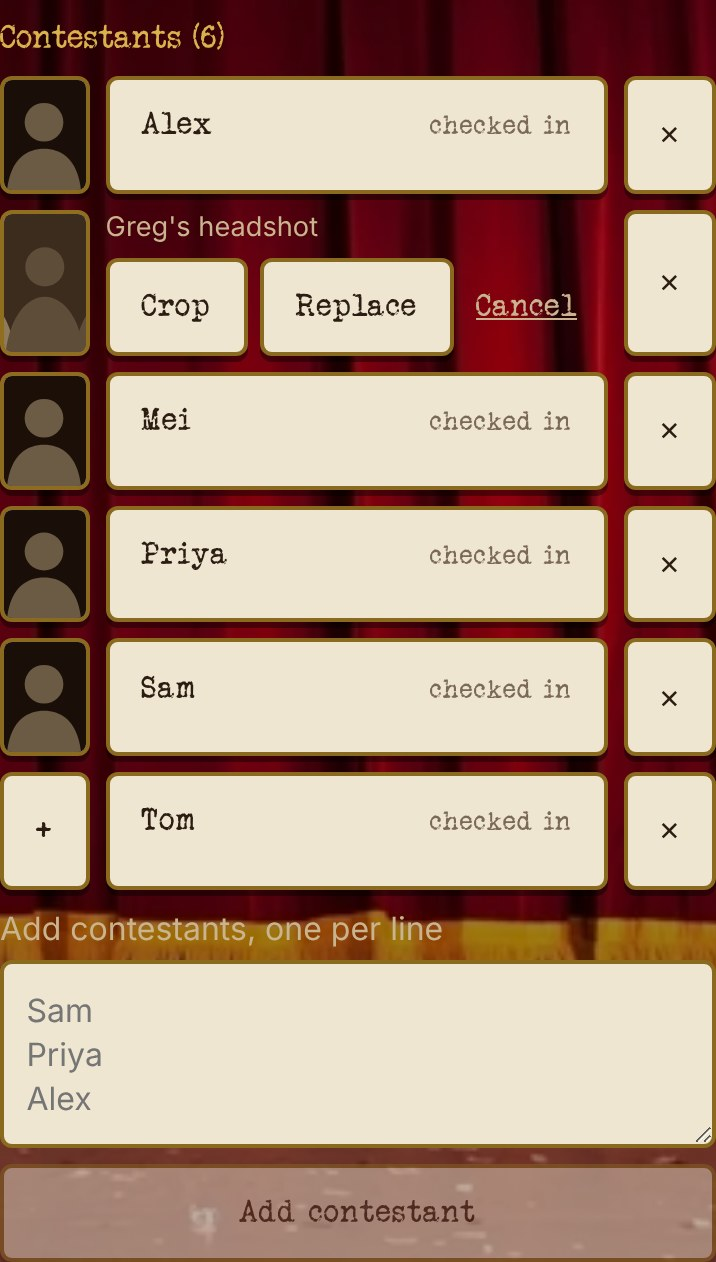
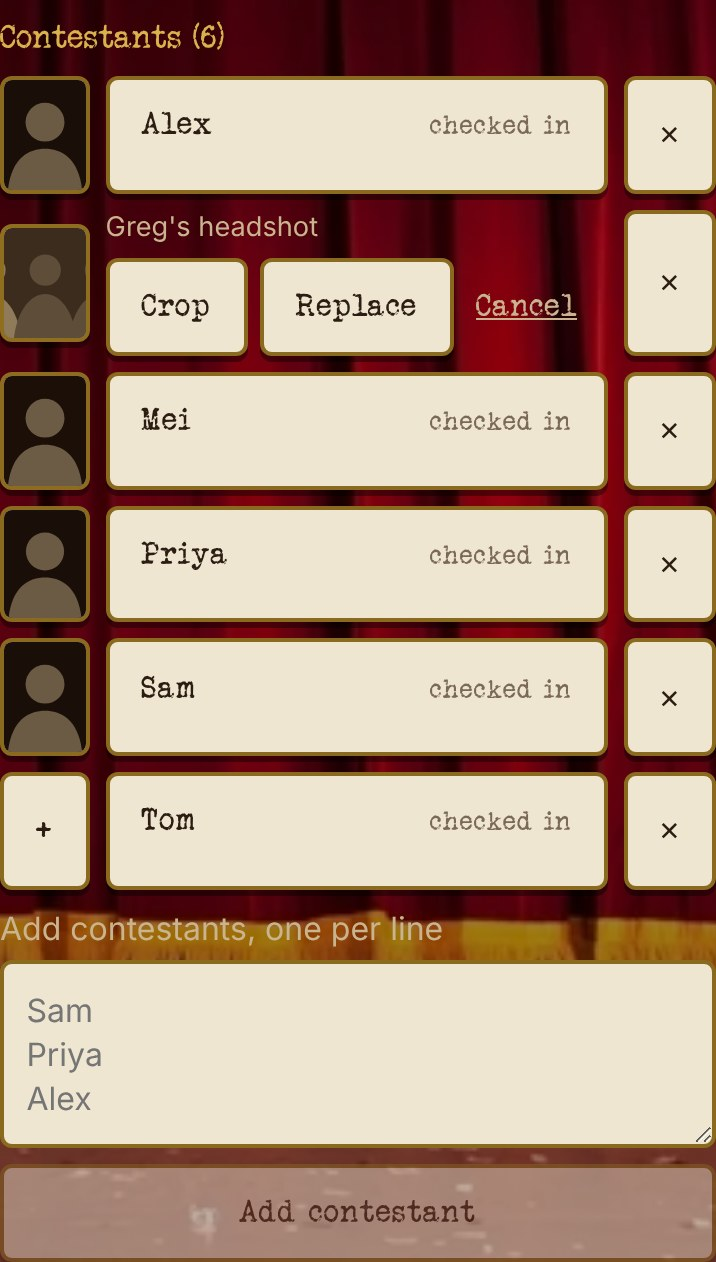
Sketch: list thumbnails show the saved crop; a new photo or a reset clears it
Claude-Session: https://claude.ai/code/session_01F5NqyUMhKV2vgpPgaqkygX

Changed region(s): [[0.0, 0.2472, 0.1229, 0.309], [0.0, 0.1545, 0.1229, 0.2163]]

diff --git a/src/scoreboard/Planning.tsx b/src/scoreboard/Planning.tsx
@@ -3,8 +3,9 @@ import { GAMES } from "../games";
 import { PileSetup, usePileCount } from "../games/secretTasks/TaskPile";
 import { PartySummary } from "../PartySetup";
 import { removePlayer, useUid } from "../session";
-import type { Scoreboard, ScoreboardContestant, ScoreboardTask, Session, TaskGame } from "../types";
+import type { HeadshotCrop, Scoreboard, ScoreboardContestant, ScoreboardTask, Session, TaskGame } from "../types";
 import { addContestants, addKeptGame, addPlayerToScoreboard, addTask, removeContestant, renameContestant, reorderTasks, uploadHeadshot } from "./data";
+import { cropFill } from "./crop";
 import { currentTotals } from "./scoring";
 import { SetupFile } from "./SetupFile";
 import { TaskCards } from "./TaskCards";
@@ -184,7 +185,7 @@ function Contestants({ code, session, board, contestants, onCrop }: {
       <h3>Contestants ({contestants.length})</h3>
       <ul className="sb-contestant-list">
         {contestants.map(([id, c]) => (
-          <ContestantRow key={id} code={code} board={board} id={id} name={c.name} photo={c.photo} hasPoints={id in totals} onCrop={() => onCrop(id)}
+          <ContestantRow key={id} code={code} board={board} id={id} name={c.name} photo={c.photo} crop={c.crop} hasPoints={id in totals} onCrop={() => onCrop(id)}
             here={c.uid && players[c.uid] ? c.uid : undefined} />
         ))}
       </ul>
@@ -211,8 +212,8 @@ function Contestants({ code, session, board, contestants, onCrop }: {
   );
 }
 
-function ContestantRow({ code, board, id, name, photo, hasPoints, here, onCrop }: {
-  code: string; board: Scoreboard | undefined; id: string; name: string; photo?: string; hasPoints: boolean; onCrop: () => void;
+function ContestantRow({ code, board, id, name, photo, crop, hasPoints, here, onCrop }: {
+  code: string; board: Scoreboard | undefined; id: string; name: string; photo?: string; crop?: HeadshotCrop; hasPoints: boolean; onCrop: () => void;
   /** Their phone's uid, once they've checked in. */
   here?: string;
 }) {
@@ -246,7 +247,7 @@ function ContestantRow({ code, board, id, name, photo, hasPoints, here, onCrop }
       <button className="sb-photo" aria-label={photo ? `Change ${name}'s headshot` : `Add ${name}'s headshot`} aria-expanded={photo ? choosing : undefined}
         onClick={() => photo ? setChoosing(!choosing) : input.current?.click()}>
         {progress !== undefined ? <span className="small">{Math.round(progress * 100)}%</span>
-          : photo ? <img src={photo} alt="" /> : <span aria-hidden>+</span>}
+          : photo ? <span className="sb-photo-fill" style={cropFill(photo, crop)} /> : <span aria-hidden>+</span>}
       </button>
       <input ref={input} type="file" accept="image/*" hidden onChange={(e) => { void upload(e.target.files?.[0]); e.target.value = ""; }} />
       {choosing ? (

diff --git a/src/scoreboard/crop.ts b/src/scoreboard/crop.ts
@@ -8,7 +8,7 @@ export const WINDOW = 140 / 184;
 export function centred(ratio: number): HeadshotCrop {
   const w = Math.min(1, WINDOW / ratio);
   const h = heightOf(w, ratio);
-  return { x: (1 - w) / 2, y: (1 - h) / 2, w };
+  return { x: (1 - w) / 2, y: (1 - h) / 2, w, h };
 }
 
 /** The crop's height, as a share of the photo's: it keeps the window's shape. */
@@ -16,17 +16,17 @@ export function heightOf(w: number, ratio: number) {
   return (w * ratio) / WINDOW;
 }
 
-/** Keeps a crop inside the photo, at most as big as fits. */
-export function clamp(c: HeadshotCrop, ratio: number): HeadshotCrop {
+/** Keeps a crop inside the photo, at most as big as fits, in the window's shape. */
+export function clamp(c: Omit<HeadshotCrop, "h">, ratio: number): HeadshotCrop {
   const w = Math.min(c.w, centred(ratio).w);
   const h = heightOf(w, ratio);
-  return { x: Math.min(Math.max(c.x, 0), 1 - w), y: Math.min(Math.max(c.y, 0), 1 - h), w };
+  return { x: Math.min(Math.max(c.x, 0), 1 - w), y: Math.min(Math.max(c.y, 0), 1 - h), w, h };
 }
 
 /** A box in the window's shape filled with the cropped part of the photo, as a background (no crop: centred, as before). */
-export function cropFill(photo: string, crop: HeadshotCrop | undefined, ratio: number | undefined): CSSProperties {
-  if (!crop || !ratio) return { backgroundImage: `url(${photo})`, backgroundSize: "cover", backgroundPosition: "center" };
-  const h = heightOf(crop.w, ratio);
+export function cropFill(photo: string, crop: HeadshotCrop | undefined): CSSProperties {
+  if (!crop) return { backgroundImage: `url(${photo})`, backgroundSize: "cover", backgroundPosition: "center" };
+  const { h } = crop;
   const at = (p: number, size: number) => (size >= 1 ? 0 : (p / (1 - size)) * 100);
   return {
     backgroundImage: `url(${photo})`,

diff --git a/docs/guest-shots/shots.tsx b/docs/guest-shots/shots.tsx
@@ -51,7 +51,9 @@ function build() {
     ...(shot.endsWith("haul") ? { photo: "/docs/guest-shots/faces/silhouette.jpg" } : !(shot === "checkin-headshot" && id === who) && (id !== "tom" || shot.includes("scores") || shot.endsWith("haul")) ? { photo: face("#6b5a44") } : {}),
     ...(checkedIn.has(id) && !arriving ? { uid: id } : {}),
   }]));
-  if (shot === "host-plan-crop" || shot === "host-crop") contestants.greg!.photo = group;
+  if (shot.startsWith("host-plan-crop") || shot === "host-crop") contestants.greg!.photo = group;
+  // Back on the list after Save: the window the crop page shot left on Greg.
+  if (shot === "host-plan-cropped") Object.assign(contestants.greg!, { photo: group, crop: { x: 0.05, y: 0.08, w: 0.27, h: 0.59 } });
   if (arriving) for (const id of checkedIn) contestants[id]!.uid = id;
   const tasks: Record<string, unknown> = {
     t1: { order: 1, game: "headshots", text: HEAD },
@@ -130,7 +132,7 @@ function build() {
     case "host-parts-phones": set("display", { step: "tasktext", task: "t6" }); set("phoneText", { task: "t6", part: 1 }); set("begun", true); break;
     case "task-parts-phone": picked(); q.set("later", "1"); set("phoneText", { task: "t6", part: 1 }); set("begun", true); break;
     // A live task with one part: the same two rows, "The task" in place of Part 1.
-    case "host-plan": case "host-plan-crop": case "host-crop": set("begun", true); break;
+    case "host-plan": case "host-plan-crop": case "host-plan-cropped": case "host-crop": set("begun", true); break;
     case "host-onepart": set("begun", true); break;
     case "host-onepart-up": set("display", { step: "tasktext", task: "t7" }); set("begun", true); break;
     case "checkin-rules": case "checkin-pile": break;

diff --git a/src/scoreboard/CropPage.tsx b/src/scoreboard/CropPage.tsx
@@ -65,7 +65,8 @@ export function CropPage({ code, session, id, onBack }: { code: string; session:
       const py = s.crop.y + (north ? 0 : h0) + (e.clientY - s.y) / height;
       const room = Math.min(west ? ax : 1 - ax, ((north ? ay : 1 - ay) * WINDOW) / ratio);
       const w = Math.min(room, max, Math.max(max / 5, Math.abs(px - ax), (Math.abs(py - ay) * WINDOW) / ratio));
-      setCrop({ x: west ? ax - w : ax, y: north ? ay - heightOf(w, ratio) : ay, w });
+      const h = heightOf(w, ratio);
+      setCrop({ x: west ? ax - w : ax, y: north ? ay - h : ay, w, h });
     } else {
       setCrop(clamp({ ...s.crop, x: s.crop.x + (e.clientX - s.x) / width, y: s.crop.y + (e.clientY - s.y) / height }, ratio));
     }
@@ -97,7 +98,7 @@ export function CropPage({ code, session, id, onBack }: { code: string; session:
       </div>
       <div className="crop-preview">
         <div className="crop-frame">
-          <div className="crop-fill" style={cropFill(photo, now, ratio)} />
+          <div className="crop-fill" style={cropFill(photo, now)} />
           <img src={frame} alt="" />
         </div>
         <div className="crop-side">

diff --git a/src/styles.css b/src/styles.css
@@ -1179,8 +1179,10 @@ button.help-q:active { transform: none; box-shadow: none; }
 .sb-add { display: grid; gap: 0.5rem; }
 .sb-add textarea { font: inherit; width: 100%; padding: 0.7rem; border-radius: 6px; border: 2px solid var(--gold-dark); background: var(--paper); color: var(--ink); }
 /* the scoreboard's window, 140 by 184 inside its gold frame, so the thumbnail shows what the TV will */
-.sb-photo { flex: none; width: 2.8rem; aspect-ratio: 140 / 184; height: auto; padding: 0; display: grid; place-items: center; overflow: hidden; font-size: 1.4rem; }
+.sb-photo { flex: none; align-self: center; width: 2.8rem; height: calc(2.8rem * 184 / 140); padding: 0; display: grid; place-items: center; overflow: hidden; font-size: 1.4rem; }
 .sb-photo img { width: 100%; height: 100%; object-fit: cover; }
+/* the headshot as the scoreboard crops it */
+.sb-photo-fill { width: 100%; height: 100%; background-repeat: no-repeat; }
 .sb-contestant-name { flex: 1; text-align: left; }
 .sb-rename { flex: 1; display: flex; gap: 0.4rem; align-items: center; }
 .sb-contestant-name { display: flex; align-items: baseline; gap: 0.6rem; }

diff --git a/src/types.ts b/src/types.ts
@@ -225,8 +225,8 @@ export interface Jukebox {
   state?: { current?: number; playing?: boolean; volume?: number; repeat?: boolean };
 }
 
-/** A share of the headshot in the scoreboard window's shape: its left and top edges and its width, each from 0 to 1 of the photo's. */
-export interface HeadshotCrop { x: number; y: number; w: number }
+/** A share of the headshot in the scoreboard window's shape: its left and top edges, width and height, each from 0 to 1 of the photo's. */
+export interface HeadshotCrop { x: number; y: number; w: number; h: number }
 
 /** A contestant on the party's scoreboard. The host adds them before the party, and guests check in by picking theirs. */
 export interface ScoreboardContestant {

diff --git a/src/scoreboard/data.ts b/src/scoreboard/data.ts
@@ -66,7 +66,8 @@ export async function uploadHeadshot(code: string, uid: string, id: string, file
   await new Promise<void>((resolve, reject) => {
     task.on("state_changed", (s) => onProgress(s.bytesTransferred / s.totalBytes), reject, resolve);
   });
-  await set(at(code, `contestants/${id}/photo`), await getDownloadURL(task.snapshot.ref));
+  // A new photo starts uncropped: the old crop was for the old one.
+  await update(at(code, `contestants/${id}`), { photo: await getDownloadURL(task.snapshot.ref), crop: null });
 }
 
 /** Sets the part of a contestant's headshot the scoreboard shows. The photo itself stays as it was. */

diff --git a/src/reset.ts b/src/reset.ts
@@ -43,6 +43,7 @@ export async function resetScores(code: string, session: Session, guests: boolea
     for (const id of keys(board?.contestants)) {
       patch[`scoreboard/contestants/${id}/uid`] = null;
       patch[`scoreboard/contestants/${id}/photo`] = null;
+      patch[`scoreboard/contestants/${id}/crop`] = null;
     }
     for (const id of keys(games?.prize?.photos)) patch[`games/prize/photos/${id}`] = null;
     for (const game of ["photos", "beforeAfter"] as const) {

diff --git a/docs/screens/README.md b/docs/screens/README.md
@@ -110,6 +110,7 @@ Scoreboard (taken on 2026-10-12, from the real components with made-up sessions;
 | `scoreboard-host-tasks-contestants.jpg` | Plan the party on a wide iPad: the party line across the top, tasks on the left and contestants on the right, the envelopes line across the bottom (2026-10-18) |
 | `headshot-crop-choice.jpg` | Plan the party, Contestants: headshots as tall thumbnails the shape of the scoreboard's window; Greg's (a wide group shot) tapped, opening "Greg's headshot" with Crop, Replace and Cancel in his row (sketch, 2026-10-19, from the ABCD party) |
 | `headshot-crop-page.jpg` | Crop opened on Greg's headshot: "← Plan the party", his whole group shot with the gold window (a dot on each corner to resize it) dragged onto him and the rest dimmed, the scoreboard's gold frame beside it showing the crop, "Back to the middle", gold Save and quiet Cancel (sketch, 2026-10-19, from the ABCD party) |
+| `headshot-crop-saved.jpg` | Back on Plan the party after Save: Greg's tall thumbnail now shows the part of his group shot he cropped to, the others still centred (sketch, 2026-10-19, from the ABCD party) |
 | `scoreboard-host-update.jpg` | 🏆 with the scoreboard up: gold "Update the scores · N new tasks" |
 | `scoreboard-host-remote-scoreboard-up.jpg` | The remote's main view while the scoreboard is on the big screen |
 | `scoreboard-host-name-photo-task.jpg` | ✎ on a Photos task: "Photos: name it (optional)", no Scoring, the three "+" chips (2026-10-18) |
